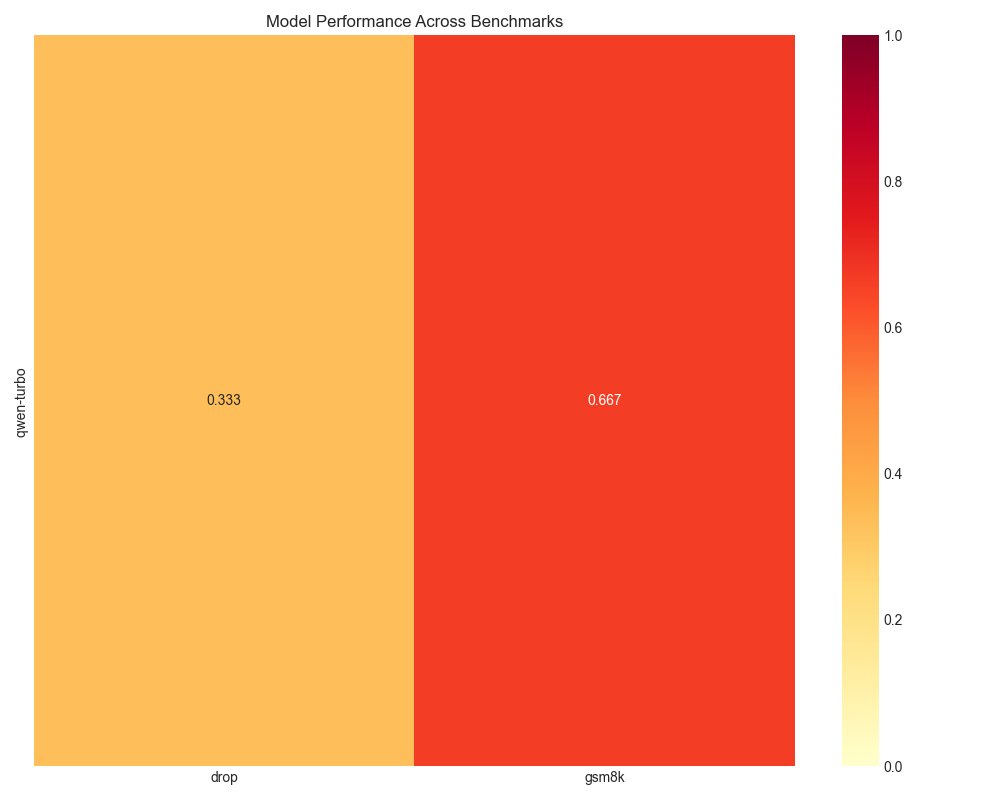
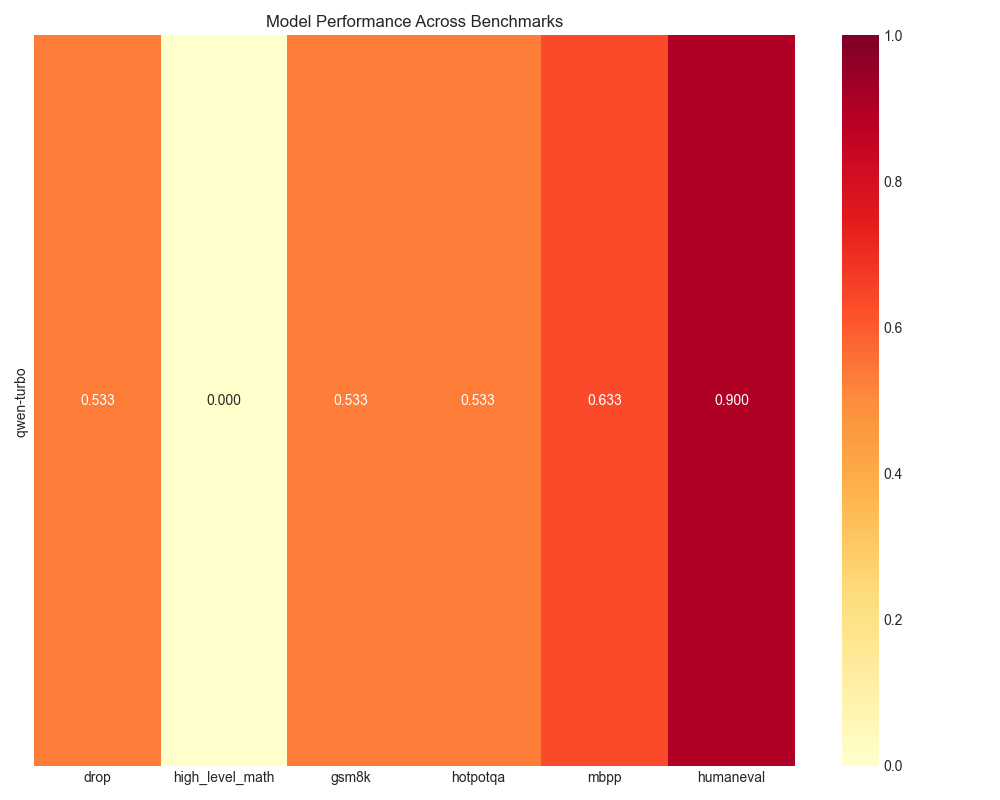
eval

diff --git a/New_evaluation_and_RL/model_evaluation/results/model_comparison.md b/New_evaluation_and_RL/model_evaluation/results/model_comparison.md
@@ -1,13 +1,13 @@
 # Model Comparison Report
 
-**Generated**: 2025-09-06T17:03:24.490343
+**Generated**: 2025-09-06T17:15:56.056644
 **Number of Models**: 1
 
 ## Overall Rankings
 
 | Rank | Model | Overall Score | Success Rate |
 |------|-------|---------------|---------------|
-| 1 | qwen-turbo  | 50.00% | 100.00% |
+| 1 | qwen-turbo  | 52.22% | 100.00% |
 
 ## Benchmark Comparisons
 
@@ -15,13 +15,37 @@
 
 | Model | Mean Score | Success Rate |
 |-------|------------|---------------|
-| qwen-turbo  | 0.333 | 100.0% |
+| qwen-turbo  | 0.533 | 100.0% |
+
+### high_level_math
+
+| Model | Mean Score | Success Rate |
+|-------|------------|---------------|
+| qwen-turbo  | 0.000 | 100.0% |
 
 ### gsm8k
 
 | Model | Mean Score | Success Rate |
 |-------|------------|---------------|
-| qwen-turbo  | 0.667 | 100.0% |
+| qwen-turbo  | 0.533 | 100.0% |
+
+### hotpotqa
+
+| Model | Mean Score | Success Rate |
+|-------|------------|---------------|
+| qwen-turbo  | 0.533 | 100.0% |
+
+### mbpp
+
+| Model | Mean Score | Success Rate |
+|-------|------------|---------------|
+| qwen-turbo  | 0.633 | 100.0% |
+
+### humaneval
+
+| Model | Mean Score | Success Rate |
+|-------|------------|---------------|
+| qwen-turbo  | 0.900 | 100.0% |
 
 ## Summary
 
@@ -29,4 +53,4 @@
 - **Worst Model**: qwen-turbo 
 
 ---
-*Generated at 2025-09-06 17:03:24*
+*Generated at 2025-09-06 17:15:56*

diff --git a/New_evaluation_and_RL/model_evaluation/results/model_qwen-turbo .md b/New_evaluation_and_RL/model_evaluation/results/model_qwen-turbo .md
@@ -2,26 +2,30 @@
 
 ## Summary
 
-- **Date**: 2025-09-06T17:03:24.479061
+- **Date**: 2025-09-06T17:15:56.048105
 - **Model Path**: N/A
-- **Overall Score**: 50.00%
+- **Overall Score**: 52.22%
 - **Success Rate**: 100.00%
-- **Total Samples**: 2
+- **Total Samples**: 60
 
 ## Overall Statistics
 
-- **Successful**: 2/2
-- **Mean Score**: 0.500
-- **Max Score**: 0.667
-- **Min Score**: 0.333
-- **Std Dev**: 0.236
+- **Successful**: 60/60
+- **Mean Score**: 0.522
+- **Max Score**: 1.000
+- **Min Score**: 0.000
+- **Std Dev**: 0.431
 
 ## Benchmark Performance
 
 | Benchmark | Samples | Success Rate | Mean Score | Max | Min | Std Dev |
 |-----------|---------|--------------|------------|-----|-----|----------|
-| drop | 1 | 100.0% | 0.333 | 0.333 | 0.333 | 0.000 |
-| gsm8k | 1 | 100.0% | 0.667 | 0.667 | 0.667 | 0.000 |
+| drop | 10 | 100.0% | 0.533 | 1.000 | 0.000 | 0.391 |
+| gsm8k | 10 | 100.0% | 0.533 | 1.000 | 0.000 | 0.477 |
+| high_level_math | 10 | 100.0% | 0.000 | 0.000 | 0.000 | 0.000 |
+| hotpotqa | 10 | 100.0% | 0.533 | 1.000 | 0.000 | 0.477 |
+| humaneval | 10 | 100.0% | 0.900 | 1.000 | 0.333 | 0.225 |
+| mbpp | 10 | 100.0% | 0.633 | 1.000 | 0.000 | 0.292 |
 
 ---
-*Generated at 2025-09-06 17:03:24*
+*Generated at 2025-09-06 17:15:56*
